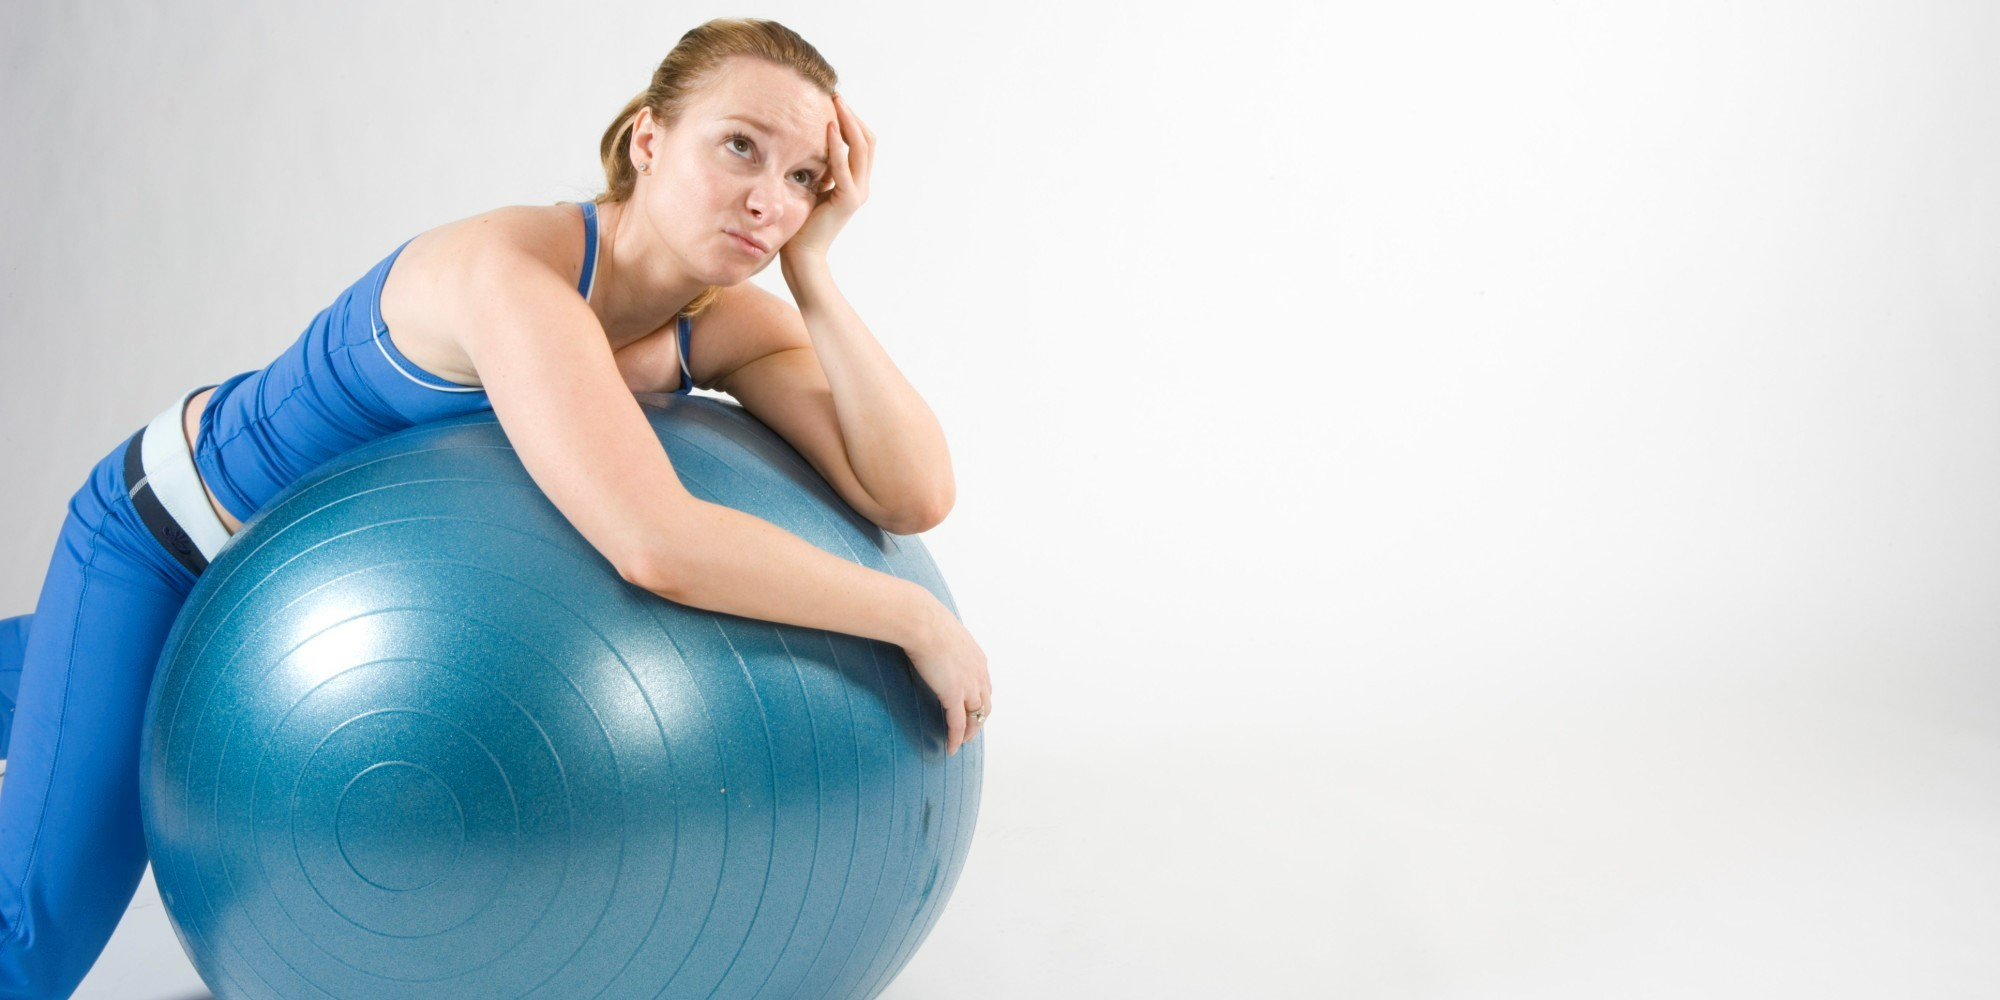
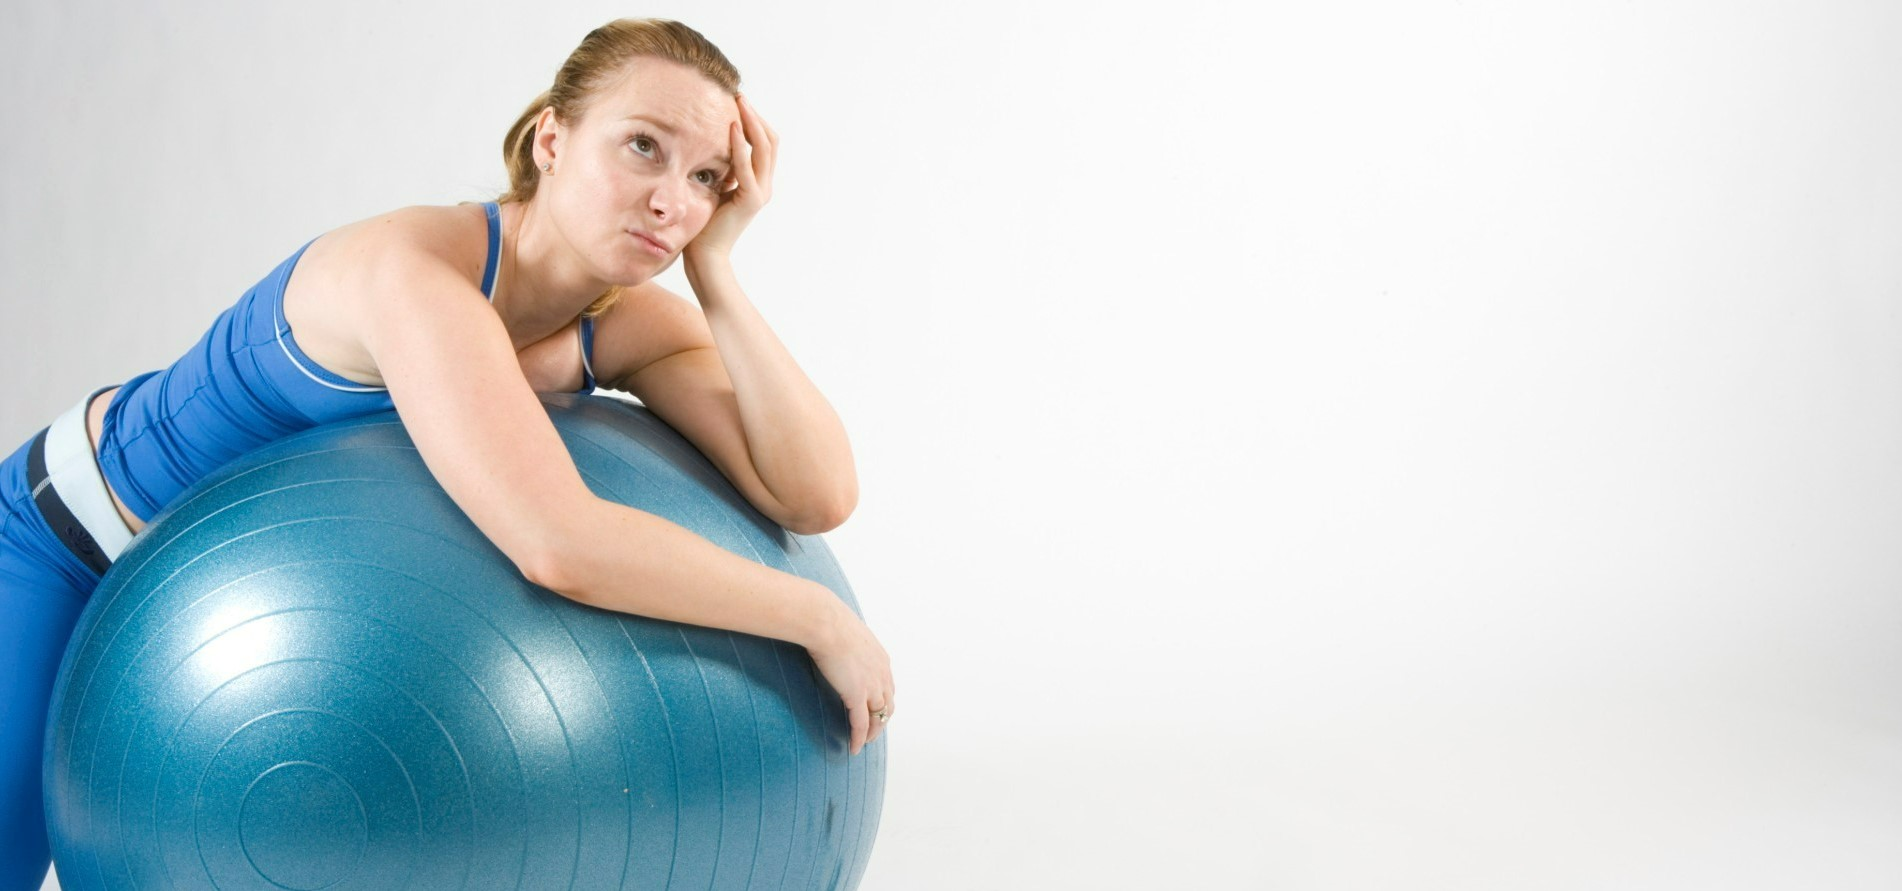
update GroupX

Changed region(s): [[0.0, 0.0, 0.4963, 1.0]]

diff --git a/services.html b/services.html
@@ -123,12 +123,6 @@
             height: 390px;
         }
         
-        .boredom2:hover .groupX {
-            font-weight: bolder;
-            color: white;
-            text-shadow: black 0px 0px 5px, orangered 0px 0px 10px, orangered 0px 0px 15px, orangered 0px 0px 20px, orangered 0px 0px 28px;
-        }
-        
         .split {
             position: absolute;
             width: 60%;
@@ -138,7 +132,7 @@
         
         .split.left {
             left: 0;
-            background: url('images/services/boredom.jpg') center center no-repeat;
+            background: url('images/services/boredom2.jpg') center center no-repeat;
             background-size: cover;
         }
         
@@ -183,18 +177,22 @@
         
         .hover-right .right {
             width: var(--hover-width);
+            font-weight: bolder;
+            font-size: 15rem;
+            text-shadow: black 0px 0px 5px, orangered 0px 0px 10px, orangered 0px 0px 15px, orangered 0px 0px 20px, orangered 0px 0px 28px;
         }
         
         .hover-right .left {
             width: var(--other-width);
-            color: whitesmoke;
+        }
+        
+        .hover-right .left s {
+            color: white;
+            text-shadow: black 0px 0px 5px, orangered 0px 0px 10px, orangered 0px 0px 15px, orangered 0px 0px 20px, orangered 0px 0px 28px;
         }
         
         .hover-right .left:before {
             z-index: 2;
-            font-weight: bolder;
-            color: white;
-            text-shadow: black 0px 0px 5px, orangered 0px 0px 10px, orangered 0px 0px 15px, orangered 0px 0px 20px, orangered 0px 0px 28px;
         }
     </style>
 </head>

diff --git a/serGroupX.html b/serGroupX.html
@@ -7,7 +7,7 @@
 <!-- New Banner -->
 <div class="boredom2" style="color:orangered;">
     <div class=" split left h1 text-center align-middle pr-5 py-5">From <s>Boredom</s></div>
-    <div class="split right groupX pl-5 pt-5 text-left text-light">
+    <div class="split right pl-5 pt-5 text-left text-light">
         <h1 style="font-weight: 900; padding-top:80px; font-size: 4rem;"> To <span class="text-nowrap">GROUP-X</span></h1>
     </div>
 </div>
